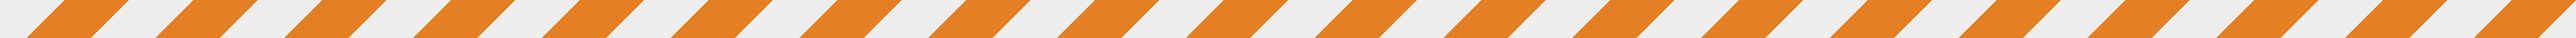
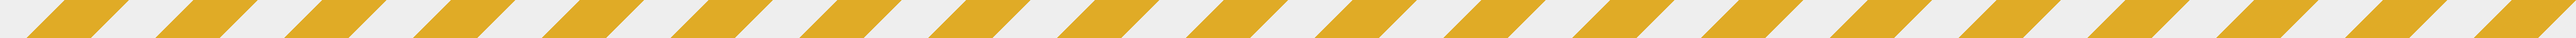
suite

diff --git a/public/css/main.css b/public/css/main.css
@@ -83,6 +83,8 @@ img {
 body {
   width: 100%;
   background-color: #ffffff;
+  overflow-y: scroll;
+  overflow-x: hidden;
 }
 
 body a:hover {
@@ -179,17 +181,7 @@ h4, .logo {
 }
 
 .navbar .logo {
-  font-family: "Ludicrous-Stencil",sans-serif;
-  font-weight: bold;
-  font-size: 30px !important;
-  line-height: 50px;
-  background: -webkit-linear-gradient(0deg, #99aa03 0%, white 100%);
-  -webkit-background-clip: text;
-  background-clip: text;
-  -webkit-text-fill-color: transparent;
-  background: -moz-linear-gradient(0deg, #99aa03 0%, white 100%);
-  -moz-background-clip: text;
-  -moz-text-fill-color: transparent;
+  content: url(../../../../public/images/logoOrange.png);
 }
 
 .navbar li {
@@ -214,14 +206,14 @@ h4, .logo {
   left: 0;
   width: 100%;
   height: 3px;
-  background-color: #99aa03;
+  background-color: #bd8a0a;
   transform: scaleX(0);
   transform-origin: right;
   transition: all 0.5s;
 }
 
 .navbar li a:hover {
-  color: #99aa03;
+  color: #bd8a0a;
 }
 
 .navbar li a:hover::after {
@@ -230,7 +222,7 @@ h4, .logo {
 }
 
 a.active:not(.logo) {
-  color: #99aa03;
+  color: #bd8a0a;
 }
 
 .invisible {
@@ -238,12 +230,12 @@ a.active:not(.logo) {
 }
 
 .scrolled {
-  background-image: linear-gradient(90deg, #151f00 0%, #425e01 35%, #99aa03 100%);
+  background-image: linear-gradient(90deg, #221d00 10%, #504400 30%, #dbb406 50%);
 }
 
 .parallax-window {
   max-height: 100vh;
-  background-color: #99aa03;
+  background-color: #dbb406;
   opacity: 0.2;
 }
 
@@ -306,7 +298,7 @@ a.active:not(.logo) {
   margin: 0 auto;
   color: white;
   /* Clip Background Image */
-  background: url("../../../../public/images/animated-text-fill-green.png") repeat-y;
+  background: url("../../../../public/images/animated-text-fill-orange.png") repeat-y;
   -webkit-background-clip: text;
   background-clip: text;
   -webkit-text-fill-color: transparent;
@@ -375,7 +367,7 @@ a.active:not(.logo) {
 }
 
 .twoButtons div:hover a {
-  color: #99aa03;
+  color: #bd8a0a;
   opacity: 1;
 }
 
@@ -391,7 +383,7 @@ a.active:not(.logo) {
   display: flex;
   justify-content: center;
   top: 80px;
-  color: #99aa03;
+  color: #bd8a0a;
   opacity: .6;
   font-weight: bold;
   line-height: 20px;
@@ -704,31 +696,32 @@ a.active:not(.logo) {
 /*--------------------------------------------------------------
 # scrolbar
 --------------------------------------------------------------*/
-/* width */
-::-webkit-scrollbar {
+/* ===== Scrollbar CSS ===== */
+/* Firefox */
+* {
+  scrollbar-width: auto;
+  scrollbar-color: #bd8a0a #ffffff;
+}
+
+/* Chrome, Edge, and Safari */
+*::-webkit-scrollbar {
   width: 16px;
 }
 
-/* Track */
-::-webkit-scrollbar-track {
-  box-shadow: inset 0 0 5px grey;
-  border-radius: 10px;
+*::-webkit-scrollbar-track {
+  background: #ffffff;
 }
 
-/* Handle */
-::-webkit-scrollbar-thumb {
-  background: #99aa03;
+*::-webkit-scrollbar-thumb {
+  background-color: #bd8a0a;
   border-radius: 10px;
-}
-
-html::-webkit-scrollbar {
-  width: 16px;
-  height: 5px;
+  border: 3px solid #ffffff;
+  transition: all .3s  ease-in;
 }
 
 /* Handle on hover */
 ::-webkit-scrollbar-thumb:hover {
-  opacity: .5;
+  background: #dbb406;
 }
 
 /*--------------------------------------------------------------
@@ -742,7 +735,7 @@ html::-webkit-scrollbar {
   border-radius: 50px;
   right: 15px;
   bottom: 15px;
-  background: #99aa03;
+  background: #bd8a0a;
   color: white;
   transition: all 0.5s ease-in-out;
   z-index: 50;
@@ -756,7 +749,7 @@ html::-webkit-scrollbar {
 }
 
 .back-to-top:hover {
-  opacity: 0.5;
+  background: #dbb406;
 }
 
 .flexrow {
@@ -774,6 +767,6 @@ html::-webkit-scrollbar {
 }
 
 .title {
-  color: #99aa03;
+  color: #bd8a0a;
 }
 /*# sourceMappingURL=main.css.map */

diff --git a/public/css/sass/abstracts/_variables.scss b/public/css/sass/abstracts/_variables.scss
@@ -7,40 +7,39 @@
     // pour changer le theme mettre true à celui choisi et false aux reste
     
     
-        $blueTheme : false;
-        $orangeTheme :false ;
-        $yellowTheme :false ;    
-        $greenTheme : true;
-        $grenadeTheme :false ;
+        $blueTheme : false ;
+        $orangeTheme :true  ; 
+        $greenTheme :false  ;
+        
    
       
     //color by default 
-    $color-profile2:rgb(19, 128, 161);
-    $color-bgNav: linear-gradient(90deg, #001415 0%, rgb(0, 43, 63) 35%, $color-profile2 100%);
+    $color-profile2:#1380a1;
+    $color-profile3: rgb(3, 188, 245);
+    $color-bgNav: linear-gradient(90deg, rgb(0, 21, 31) 10%, rgb(0, 43, 63) 30%, $color-profile3 50%);
     $animated-text-fill-img:"animated-text-fill-blue.png";    
+    $logoImg:url(../../../../public/images/logoBlue.png);
 
     @if ($orangeTheme) {
-        $color-profile2:rgb(228, 128, 34);
-        $color-bgNav: linear-gradient(90deg, #001415 0%, rgba(63, 54, 0,1) 35%, $color-profile2 100%);
+        $color-profile2:#bd8a0a;
+        $color-profile3: #dbb406;
+        $color-bgNav: linear-gradient(90deg, rgb(34, 29, 0) 10%, rgb(80, 68, 0) 30%, $color-profile3 50%);
         $animated-text-fill-img:"animated-text-fill-orange.png";
-    } 
-    @else if  $yellowTheme {
-        $color-profile2:rgb(187, 153, 4);
-        $color-bgNav: linear-gradient(90deg, rgb(46, 37, 0) 0%, rgb(109, 89, 1) 35%, $color-profile2 100%);
-        $animated-text-fill-img:"animated-text-fill-yellow.png";
-    } @else if $blueTheme {
-        $color-profile2:rgb(0, 123, 160);
-        $color-bgNav: linear-gradient(90deg, rgb(0, 20, 21) 0%, rgb(1, 70, 102) 35%, $color-profile2 100%);
+        $logoImg:url(../../../../public/images/logoOrange.png);
+   } @else if $blueTheme {
+        $color-profile2:#007ba0;
+        $color-profile3: rgb(3, 188, 245);
+        $color-bgNav: linear-gradient(90deg, rgb(0, 21, 31) 10%, rgb(0, 43, 63) 30%, $color-profile3 50%);
         $animated-text-fill-img:"animated-text-fill-blue.png";
+        $logoImg:url(../../../../public/images/logoBlue.png);
     } @else if $greenTheme{
-        $color-profile2:rgb(153, 170, 3);
-        $color-bgNav: linear-gradient(90deg, rgb(21, 31, 0) 0%, rgb(66, 94, 1) 35%, $color-profile2 100%);
+        $color-profile2:#859403;
+        $color-profile3:rgb(178, 197, 2);        
+        $color-bgNav: linear-gradient(90deg, rgb(21, 31, 0) 10%, rgb(85, 92, 28) 30%, $color-profile3 50%);
         $animated-text-fill-img:"animated-text-fill-green.png";
-    } @else if $grenadeTheme{
-        $color-profile2:rgb(179, 0, 0);
-        $color-bgNav: linear-gradient(90deg, rgb(26, 0, 0) 0%, rgb(104, 0, 0) 35%, $color-profile2 100%);
-        $animated-text-fill-img:"animated-text-fill-grenade.png";
-    }
+        $logoImg:url(../../../../public/images/logoGreen.png);
+
+    } 
     
     
 
@@ -56,11 +55,11 @@
    
     //for logo background
     @mixin color-bgLogo{        
-        background: -webkit-linear-gradient(0deg, $color-profile2 0%,  $color-profile1 100%);
+        background: -webkit-linear-gradient(0deg,$color-profile2 0%, $color-profile3 80%,  $color-profile1 100%);
         -webkit-background-clip: text;
         background-clip: text;
         -webkit-text-fill-color: transparent;
-        background: -moz-linear-gradient(0deg, $color-profile2 0%,  $color-profile1 100%);
+        background: -moz-linear-gradient(0deg,$color-profile2 0%, $color-profile3 80%,  $color-profile1 100%);
         -moz-background-clip: text;
         -moz-text-fill-color: transparent;
     }

diff --git a/public/css/sass/layouts/_layouts.scss b/public/css/sass/layouts/_layouts.scss
@@ -8,28 +8,58 @@
 /*--------------------------------------------------------------
 # scrolbar
 --------------------------------------------------------------*/
-/* width */
-::-webkit-scrollbar {
-  width: 16px;  
-}
+// /* width */
+// ::-webkit-scrollbar {
+//   width: 8px;  
+//   transition: all 0.3s ease-in;
+// }
 
-/* Track */
-::-webkit-scrollbar-track {
-  box-shadow: inset 0 0 5px grey; 
-  border-radius: 10px;
+// /* Track */
+// ::-webkit-scrollbar-track {
+//   box-shadow: inset 0 0 5px $color-profile2; 
+//   border-radius: 10px;
   
-}
+// }
  
-/* Handle */
-::-webkit-scrollbar-thumb {
-  background:  $color-profile2; 
-  border-radius: 10px;  
-}
-html::-webkit-scrollbar{width:16px;height:5px}
-/* Handle on hover */
+// /* Handle */
+// ::-webkit-scrollbar-thumb {
+//   background:  $color-profile2; 
+//   border-radius: 10px;  
+// }
+// html::-webkit-scrollbar{
+//   width:8px;
+//   height:8px;
+// }
+// /* Handle on hover */
+// ::-webkit-scrollbar-thumb:hover {
+//   background: $color-profile3; 
+// }
+
+/* ===== Scrollbar CSS ===== */
+  /* Firefox */
+  * {
+    scrollbar-width: auto;
+    scrollbar-color: $color-profile2 #ffffff;
+  }
+
+  /* Chrome, Edge, and Safari */
+  *::-webkit-scrollbar {
+    width: 16px;
+  }
+
+  *::-webkit-scrollbar-track {
+    background: #ffffff;
+  }
+
+  *::-webkit-scrollbar-thumb {
+    background-color: $color-profile2;
+    border-radius: 10px;
+    border: 3px solid #ffffff;
+    transition:all .3s  ease-in;
+  }
+  /* Handle on hover */
 ::-webkit-scrollbar-thumb:hover {
-  // background: #b30000; 
-  opacity: .5;
+  background: $color-profile3; 
 }
 /*--------------------------------------------------------------
 # Back to top button
@@ -57,7 +87,7 @@ html::-webkit-scrollbar{width:16px;height:5px}
   }
   
   .back-to-top:hover {
-    opacity: 0.5;
+    background: $color-profile3;
   }
   
 

diff --git a/index.html b/index.html
@@ -23,7 +23,7 @@
     <header class="section" id="header">
         <nav class="navbar navbar-expand-md fixed-top">
             <div class="container">
-                <a class="logo text-nowrap" href="#header">OumCreation</a>
+                <a class="logo text-nowrap" href="#header"><img src="public/images/logoBlue.png" /></a>
                 <button class="navbar-toggler" type="button" data-toggle="collapse" data-target="#collapsibleNavbar">
                     <span class="navbar-toggler-icon text-secondary"></span>
                 </button>

diff --git a/public/css/sass/layouts/_header.scss b/public/css/sass/layouts/_header.scss
@@ -5,11 +5,14 @@
    }
 .navbar { 
     .logo{
-      font-family: "Ludicrous-Stencil",sans-serif;
-        font-weight: bold;
-        font-size:30px !important;
-        line-height: 50px;
-       @include color-bgLogo;  
+      // font-family: "Ludicrous-Stencil",sans-serif;
+      //   font-weight: bold;
+      //   font-size:30px !important;
+      //   line-height: 50px;
+      // //  @include color-bgLogo; 
+      // color:$color-profile2; 
+      content:$logoImg;
+      
 
     }   
     li {

diff --git a/public/css/sass/layouts/_profile.scss b/public/css/sass/layouts/_profile.scss
@@ -2,7 +2,7 @@
 //parallax for image profile
 .parallax-window {
     max-height: 100vh;    
-	background-color: $color-profile2;
+	background-color: $color-profile3;
 	opacity: 0.2;
 
 }

diff --git a/public/css/sass/bases/_bases.scss b/public/css/sass/bases/_bases.scss
@@ -17,7 +17,8 @@ body {
     a:hover{
         text-decoration: none ;          
     }
-    
+    overflow-y: scroll;
+    overflow-x: hidden;
 }
 
 
